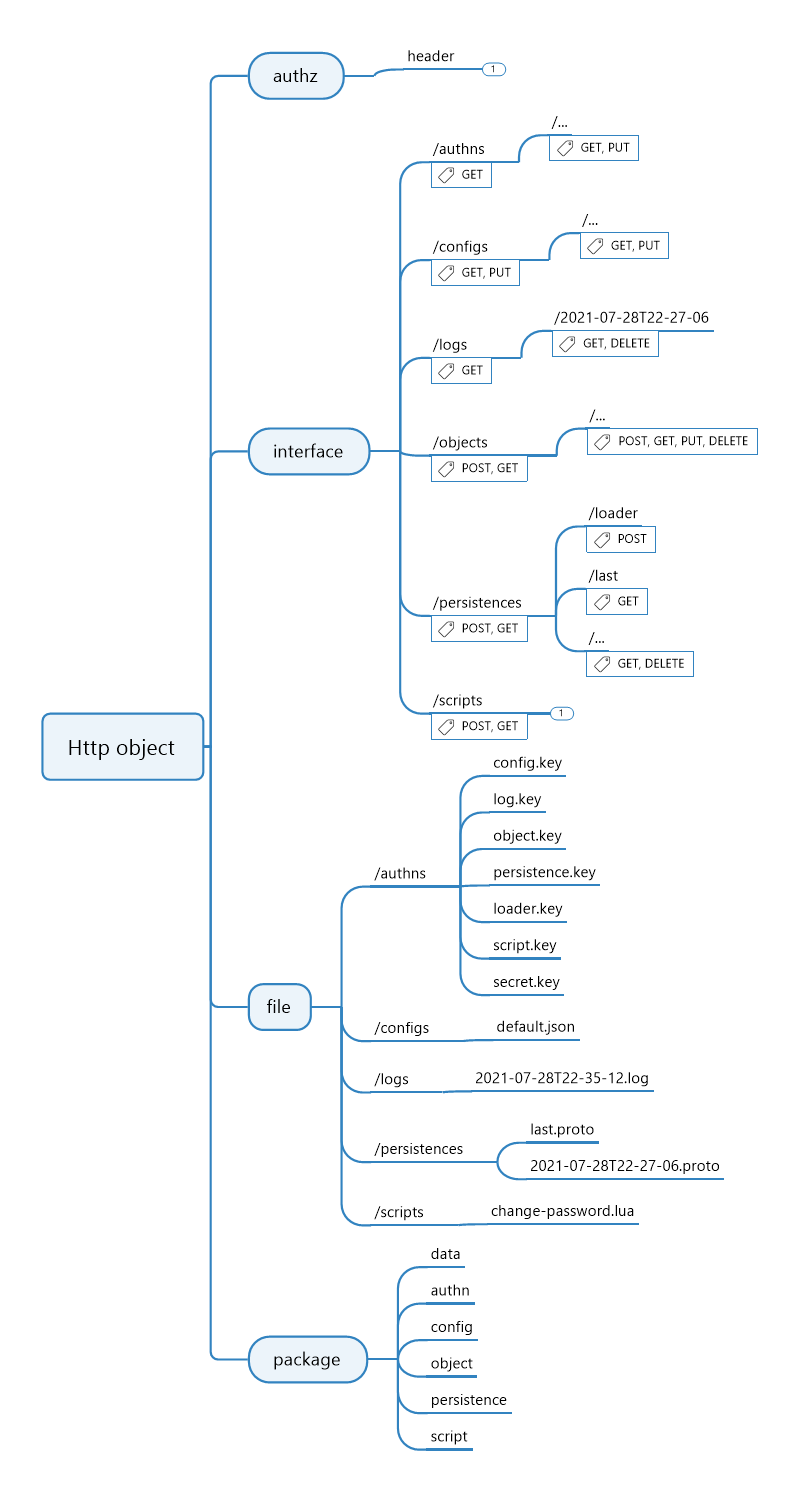
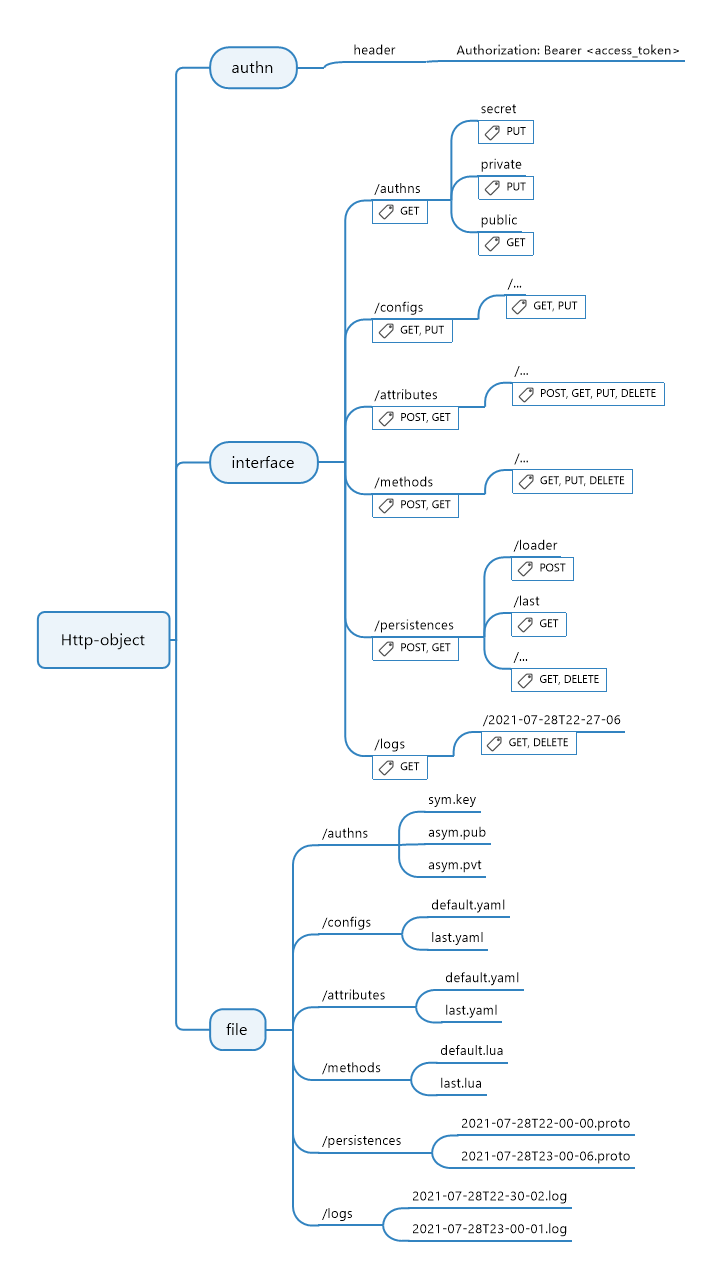
update key words of attribute and method

Changed region(s): [[0.0913, 0.0312, 0.9433, 0.9688], [0.6694, 0.2812, 0.9433, 0.3125], [0.8216, 0.7812, 0.8824, 0.8125]]

diff --git a/cmd/http-object-io/main.go b/cmd/http-object-io/main.go
@@ -1,0 +1,91 @@
+package main
+
+import (
+	// "errors"
+
+	"fmt"
+	"http-object/internal/config"
+	"io"
+	"os"
+
+	"github.com/gin-gonic/gin"
+)
+
+func main() {
+	//init log
+	logFilePath := "logs/current.log"
+	logFile, err := os.Create(logFilePath)
+	if err != nil {
+		fmt.Println(err)
+	}
+	//gin.DefaultWriter = io.MultiWriter(logFile) // writer file only, do not write console
+	gin.DefaultWriter = io.MultiWriter(logFile, os.Stdout) // writer file and console
+	fmt.Fprintln(gin.DefaultWriter, "service start ... ")
+	//load config
+	err = config.LoadCurrent()
+	if err != nil {
+		fmt.Fprintln(gin.DefaultWriter, err.Error())
+		fmt.Fprintln(gin.DefaultWriter, "load default config")
+		err = config.LoadDefault()
+	}
+	if err != nil {
+		fmt.Fprintln(gin.DefaultWriter, err.Error())
+		panic(err)
+	}
+	// fmt.Printf("%+v", cfg) //打印结构体
+	//make router
+	router := gin.Default()
+	router.GET("/", func(c *gin.Context) {
+		c.JSON(500, gin.H{
+			"success": true,
+			"name":    "http object service",
+		})
+		return
+	})
+
+	// router.GET("/configs/*uri", config.GET)
+	// router.PUT("/configs/*uri", config.PUT)
+
+	configs := router.Group("/configs")
+	{
+		//configs.POST("/*uri", post_configs)
+		configs.GET("/*uri", config.GET)
+		configs.PUT("/*uri", config.PUT)
+		//configs.DELETE("/*uri", delete_configs)
+	}
+	// logs := router.Group("/logs")
+	// {
+	// 	logs.POST("/*uri", post_logs)
+	// 	logs.GET("/*uri", get_logs)
+	// 	logs.PUT("/*uri", put_logs)
+	// 	logs.DELETE("/*uri", delete_logs)
+	// }
+	// objects := router.Group("/objects")
+	// {
+	// 	objects.POST("/*uri", post_objects)
+	// 	objects.GET("/*uri", get_objects)
+	// 	objects.PUT("/*uri", put_objects)
+	// 	objects.DELETE("/*uri", delete_objects)
+	// }
+	// scripts := router.Group("/scripts")
+	// {
+	// 	scripts.POST("/*uri", post_scripts)
+	// 	scripts.GET("/*uri", get_scripts)
+	// 	scripts.PUT("/*uri", put_scripts)
+	// 	scripts.DELETE("/*uri", delete_scripts)
+	// }
+	// authns := router.Group("/authns")
+	// {
+	// 	authns.POST("/*uri", post_authns)
+	// 	authns.GET("/*uri", get_authns)
+	// 	authns.PUT("/*uri", put_authns)
+	// 	authns.DELETE("/*uri", delete_authns)
+	// }
+	//run router
+	router.Run(config.Values.Service.Host + ":" + config.Values.Service.Port)
+}
+
+// expression of object access
+func uriToReference(uri string, o Interface) {
+
+}

diff --git a/design/readme.md b/design/readme.md
@@ -1,19 +1,19 @@
 # About
 
-## 1. Overview 
+## 1. Overview
 
-This is the resource about designing. 
+This is the resource about designing.
 
-## 2. Program Structure 
+## 2. Program Structure
 
 ```plantuml
 @startuml
 ditaa
-+------------------------------------------------------+
-|                 interface / log / ...                | framework
-+------------------------------------------------------+
-| authn / config / object / persistence / script / ... | core module 
-+------------------------------------------------------+
++---------------------------------------------------------+
+|                  interface / log / ...                  | framework
++---------------------------------------------------------+
+| config / authn / attribute / method / persistence / ... | core
++---------------------------------------------------------+
 @enduml
 ```
 
@@ -21,9 +21,8 @@ ditaa
 
 ![design-map](image/design-map.png)
 
-## 4. 关键依赖
+## 4. External Dependency
 
 - https://github.com/gin-gonic/gin
-- https://github.com/spf13/viper
 - https://github.com/yuin/gopher-lua
 - https://github.com/protocolbuffers/protobuf

diff --git a/README.md b/README.md
@@ -6,8 +6,8 @@ A universal service. You can set it to any service you need by the RESTful inter
 
 - Designed for quickly build micro service;
 - Run first, and then decide what it is;
-- Set object properties and methods through the RESTful interface;
-- Actually, do everything through the RESTful interface, including: config/authn/object/script/persistence/log, etc;
+- Set object attributes and methods through the RESTful interface;
+- Actually, do everything through the RESTful interface, including: authn/config/attribut/method/persistence/log, etc;
 - The RESTful interface follow [HTTP Data Access Rule][r];
 - Drive method by Lua script;
 - Developed in Golang, small, high concurrency and no dependence;
